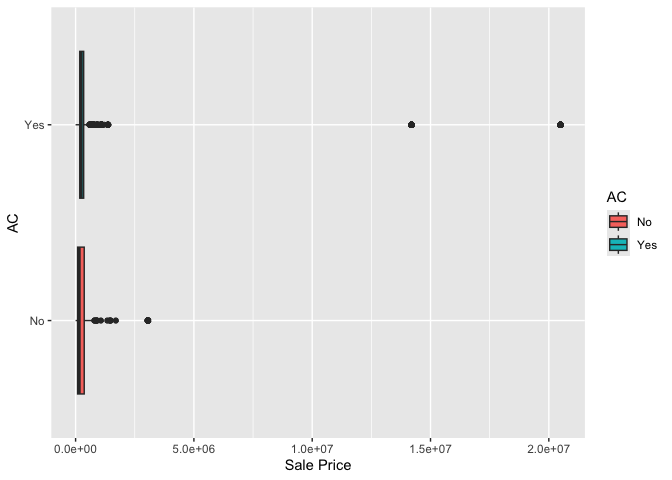
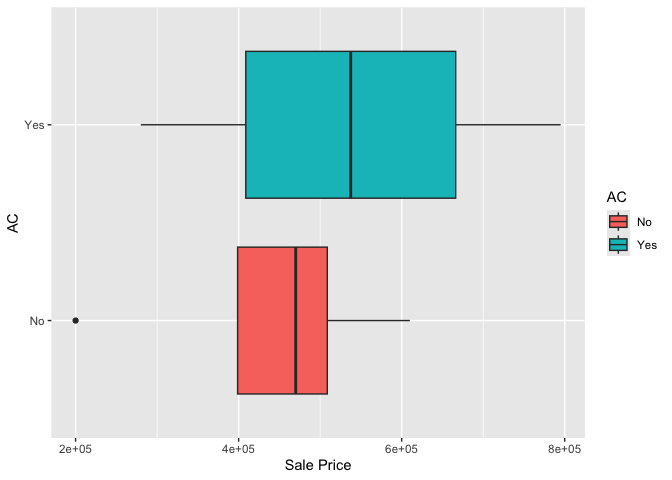
Jyotika's Work on question 4

diff --git a/README.md b/README.md
@@ -81,9 +81,9 @@ Built, Acres, etc. Some of the categorical variables are Fire Place, AC,
 Multi Sale, etc. The categorical are either Yes or No. We would predict
 the sale price ranging from 0-3 million.
 
-\#Step 2 The variable of interest is “Sale Price”
+# Step 2 The variable of interest is “Sale Price”
 
-\#Step 3
+# Step 3
 
 ``` r
 library(ggplot2)
@@ -93,24 +93,44 @@ salePriceGraph <- ggplot(ames, aes(x=`Sale Price`)) +
 print(salePriceGraph)
 ```
 
-![](README_files/figure-gfm/unnamed-chunk-2-1.png)<!-- --> As a team
-when exploring the Sale Price variable through the histogram. Most homes
-look to be between 75k to 150k. There are some outliers where some homes
-are in the millions but not many at all.
+![](README_files/figure-gfm/unnamed-chunk-2-1.png)<!-- -->
 
-\#Step 4
+As a team when exploring the Sale Price variable through the histogram.
+Most homes look to be between 75k to 150k. There are some outliers where
+some homes are in the millions but not many at all.
+
+# Step 4
 
 Selena Cooper:
 
 ``` r
-sqftPlot <- ggplot(ames |> dplyr::filter(`Sale Price` != 0), aes(x=AC, y = `Sale Price`, fill = AC))+
+sqftPlot <- ggplot(ames |> dplyr::filter(`Sale Price` != 0) |> na.omit(), aes(x=AC, y = `Sale Price`, fill = AC))+
                      geom_boxplot() + coord_flip()
 print(sqftPlot)
 ```
 
-![](README_files/figure-gfm/unnamed-chunk-3-1.png)<!-- --> I removed the
-zeros because there were a lot in the dataset so I could look at the AC
-variable affecting Sale Price. It is hard to see if Sale Price is
-affected by the AC. There are many outliers as well. The range of the AC
-variable is either the house has it or it doesn’t becuase it is
+![](README_files/figure-gfm/unnamed-chunk-3-1.png)<!-- -->
+
+I removed the zeros because there were a lot in the dataset so I could
+look at the AC variable affecting Sale Price. IF the house has AC then
+it is more expensive. There are many outliers as well. The range of the
+AC variable is either the house has it or it doesn’t becuase it is
 categorical.
+
+Jyotika Sharma:
+
+``` r
+yearBuilt <- ggplot(ames |> dplyr::filter(`Sale Price` >  0) |> na.omit(), aes(x = `Sale Price`, y = `TotalLivingArea (sf)`)) +
+  geom_point()
+
+print(yearBuilt)
+```
+
+![](README_files/figure-gfm/unnamed-chunk-4-1.png)<!-- -->
+
+I removed the zeros because most of the house in Ames in 2017 where
+causing the dataset to look skewed when exploring the scatter plot
+between Sale Price and the Total Living Area (sf). I also got rid of
+missing values. From the following points left, we can see that as the
+Sale price goes up, the total living area is higher. However, there are
+still points on that don’t follow that correlation.
